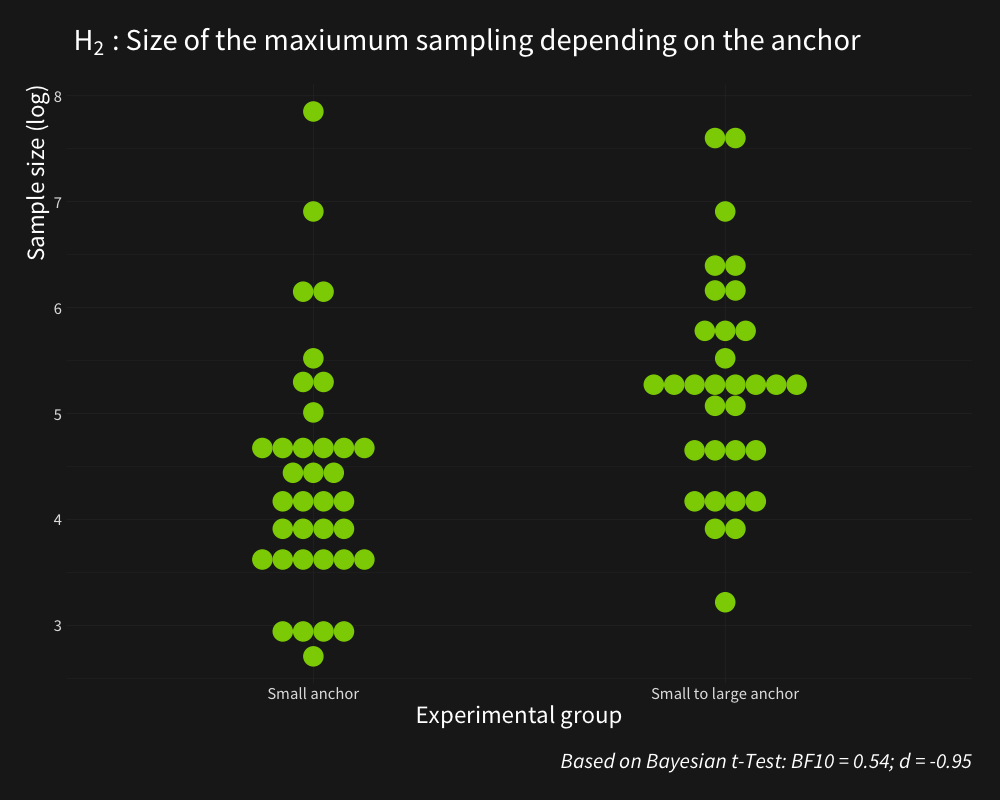
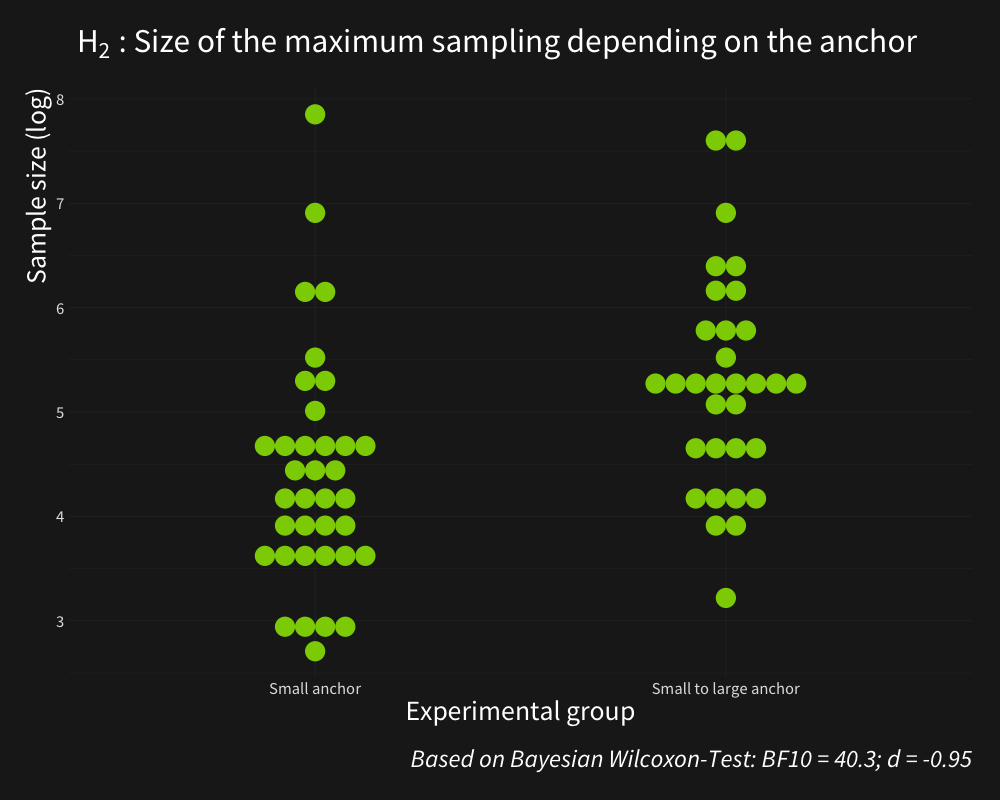
design and materials study 1

diff --git a/22_EARLI_SIG18_presentation_final.html b/22_EARLI_SIG18_presentation_final.html
@@ -6,7 +6,7 @@
     <script src="libs/header-attrs-2.11/header-attrs.js"></script>
     <link href="libs/font-awesome-5.15.3/css/all.min.css" rel="stylesheet" />
     <link href="libs/font-awesome-5.15.3/css/v4-shims.min.css" rel="stylesheet" />
-    <script type="application/json" id="xaringanExtra-editable-docid">{"id":"x9be941ad4354bda88c90af6f51ecdab","expires":1}</script>
+    <script type="application/json" id="xaringanExtra-editable-docid">{"id":"d890e10182ba4d19b95145ed089be819","expires":1}</script>
     <script src="libs/himalaya-1.1.0/himalaya.js"></script>
     <script src="libs/js-cookie-3.0.0/js.cookie.js"></script>
     <link href="libs/editable-0.2.6/editable.css" rel="stylesheet" />
@@ -72,7 +72,7 @@ top:1.5em;right:1.5em;
 .phgreen[Paper Presentation EARLI SIG 18 | 09.09.2022]  
 
 ???
-@Samuel: Wie bekommen wir * anstelle der † ohne dass der Text italic wird?
+
 
 ---
 
@@ -178,27 +178,123 @@ Randomized Controlled Trial with two experimental groups: .phgreenlight[*small a
 
 ## .phgreenlight[Design and Materials <i class="fa fa-align-left" role="presentation" aria-label="align-left icon"></i>]
 
-&lt;img src="images/materials_study1_text.png"
-     width="600px"
+&lt;img src="images/study1_exp.1.png"
+     width="550px"
      style="vertical-align:middle"&gt;
+Virtual experiment 1 - open text box
      
-&lt;img src="images/materials_study1_small_to_large_anchor.png"
-    width="600px"
-    style="vertical-align:middle"&gt;
+&lt;img src="images/study1_exp.2_small.png"
+     width="550px"
+     style="vertical-align:middle"&gt;
+Virtual experiment 2 - .phgreenlight[intervention group 1 with small sampling options]
+     
+&lt;img src="images/study1_exp.3.png"
+     width="550px"
+     style="vertical-align:middle"&gt;
+Virtual experiment 3 - open text box
 
 ???
-- to-do@Marc: Screenshots übersetzen
+- xx
+- yy
+
+---
+
+## .phgreenlight[Design and Materials <i class="fa fa-align-left" role="presentation" aria-label="align-left icon"></i>]
+
+&lt;img src="images/study1_exp.1.png"
+     width="550px"
+     style="vertical-align:middle"&gt;
+Virtual experiment 1 - open text box
+     
+&lt;img src="images/study1_exp.2_small_to_large.png"
+     width="550px"
+     style="vertical-align:middle"&gt;
+Exp. 2 - .phgreenlight[Group 2 with small to large sampling options]
+     
+&lt;img src="images/study1_exp.3.png"
+     width="550px"
+     style="vertical-align:middle"&gt;
+Virtual experiment 3 - open text box
+
+???
+- xx
+- yy
+
+---
+
+## .phgreenlight[Design and Materials <i class="fa fa-align-left" role="presentation" aria-label="align-left icon"></i>]
+
+.pull-left[
+    &lt;img src="images/study1_exp.1.png"
+     width="550px"
+     style="vertical-align:middle"&gt;]
+.pull-right[Virtual experiment 1 - open text box]
+     
+.pull-left[
+    &lt;img src="images/study1_exp.2_small_to_large.png"
+     width="550px"
+     style="vertical-align:middle"&gt;]
+.pull-right[
+    Virtual experiment 2 - .phgreenlight[Intervention group 2 with small to large sampling options]]
+     
+.pull-left[
+    &lt;img src="images/study1_exp.3.png"
+     width="550px"
+     style="vertical-align:middle"&gt;]
+.pull-right[
+    Virtual experiment 3 - open text box]
+
+???
+- xx
+- yy
+
+---
+
+## .phgreenlight[Design and Materials <i class="fa fa-align-left" role="presentation" aria-label="align-left icon"></i>]
+
+&lt;img src="images/study1_exp.1.png"
+     width="550px"
+     style="vertical-align:middle"&gt;
+Virtual experiment 1 - open text box
+     
+&lt;img src="images/study1_exp.2_text.png"
+     width="550px"
+     style="vertical-align:middle"&gt;
+Virtual experiment 2 - .phgreenlight[control group with open text boxes]
+
+&lt;img src="images/study1_exp.3.png"
+     width="550px"
+     style="vertical-align:middle"&gt;
+Virtual experiment 3 - open text box
+
+???
+- xx
+- yy
+
+---
+
+## .phgreenlight[Design and Materials <i class="fa fa-align-left" role="presentation" aria-label="align-left icon"></i>]
+
+Randomized Controlled Trial with two experimental groups: .phgreenlight[*small anchor*] and .phgreenlight[*small to large anchor*]
+
+&lt;img style="vertical-align:middle" src="images/study_one_design_light.pdf"&gt;
+
+???
+- xx
 - yy
 
 ---
 ## .phgreenlight[Hypotheses]
 
-H&lt;sub&gt;1&lt;/sub&gt;: The given .phgreen[sampling options] (small samples vs. small to large samples) .phgreen[influence as an anchor the size of the initial sampling] in the third virtual study. &lt;br&gt; 
-&lt;!-- Das ist übrigens die Kommentarfunktion :-) --&gt;
 &lt;br&gt;
-&lt;br&gt;
-H&lt;sub&gt;2&lt;/sub&gt;: The given .phgreen[sampling options] (small samples vs. small to large samples) .phgreen[influence as an anchor the maximum sample size] in the third virtual study.
 
+H&lt;sub&gt;1&lt;/sub&gt;: .phgreen[Small sampling options] in the second experiment (working as a small anchor) .phgreen[are leading to smaller initial samplings] in the third experiment than small to large sampling options (working as a small to large anchor).
+
+&lt;br&gt;
+
+H&lt;sub&gt;2&lt;/sub&gt;: .phgreen[Small sampling options] in the second experiment (working as a small anchor) .phgreen[are leading to smaller maximum samplings] in the third experiment than small to large sampling options (working as a small to large anchor).
+
+&lt;br&gt;
 &lt;br&gt;
 
 *&lt;center&gt; H&lt;sub&gt;1&lt;/sub&gt;:  µ&lt;sub&gt;small samples&lt;/sub&gt; &lt; µ&lt;sub&gt;small to large samples&lt;/sub&gt; &lt;br&gt; H&lt;sub&gt;2&lt;/sub&gt;:  µ&lt;sub&gt;small samples&lt;/sub&gt; &lt; µ&lt;sub&gt;small to large samples&lt;/sub&gt; &lt;/center&gt;*
@@ -209,8 +305,15 @@ H&lt;sub&gt;2&lt;/sub&gt;: The given .phgreen[sampling options] (small samples v
 &lt;br&gt;
 
 ???
-- xx
-- yy
+Student teachers getting small sampling options in the second virtual experiment are choosing smaller sample sizes in the third virtual experiment than the student teachers getting small to large sampling options in den second experiment.
+
+H&lt;sub&gt;1&lt;/sub&gt;: The given .phgreen[sampling options] (small samples vs. small to large samples) .phgreen[influence as an anchor the size of the initial sampling] in the third virtual study. &lt;br&gt; 
+&lt;!-- Das ist übrigens die Kommentarfunktion :-) --&gt;
+&lt;br&gt;
+&lt;br&gt;
+H&lt;sub&gt;2&lt;/sub&gt;: The given .phgreen[sampling options] (small samples vs. small to large samples) .phgreen[influence as an anchor the maximum sample size] in the third virtual study.
+
+
 
 
 ---
@@ -226,9 +329,9 @@ H&lt;sub&gt;2&lt;/sub&gt;: The given .phgreen[sampling options] (small samples v
 
 
 ???
-- @Samuel: Welche Inferenzstatistik berichten wir hier sinnvollerweise?
-  -&gt; BF - konsistent mit study 2 aber zum eigentlich nicht passenden t-Test
-  -&gt; p-Wert zum wilcoxon-Test - dann aber inkonsistent zu study 2 (hier wäre die Interpretation mit p&lt;.001 tatsächlich auch eine andere...)
+- wilcoxon-tests and no t-tests because the data is not normally distributed
+- H1: exact BF: 848; W = 215; p-value &lt;.001
+- H2: exact BF: 40.307; W = 289; p-value &lt;.001
 
 ---
 class: inverse, center, middle
